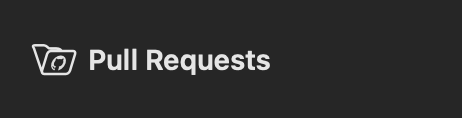
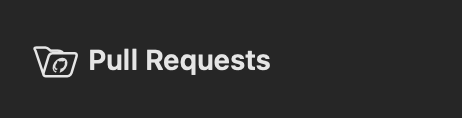
Anchor folder motion to lower-right spine corner [skip ci]

Changed region(s): [[0.0606, 0.3559, 0.1818, 0.661]]

diff --git a/Sources/Vane/FolderIcon.swift b/Sources/Vane/FolderIcon.swift
@@ -22,11 +22,34 @@ enum FolderFace {
     static let bounds = CGRect(x: -0.5, y: 3.5, width: 17.75, height: 13.5)
     static let badgeOffset = CGSize(width: 0.375, height: 2.25)
 
+    static func panelBounds(_ openness: CGFloat) -> CGRect {
+        CGRect(x: -0.25 - 0.25 * openness, y: 3.375 + 0.125 * openness,
+               width: 17.5 + 0.25 * openness, height: 13.25 + 0.25 * openness)
+    }
+
     static func panel(_ openness: CGFloat) -> Path {
         FolderPanel(openness: openness).path
     }
 
+    // The recording keeps this lower-right spine corner and the bottom edge planted.
+    static let hinge = CGPoint(x: 17.25, y: 16.625)
+
     static func projection(_ openness: CGFloat) -> CGAffineTransform {
+        var transform = unanchoredProjection(openness)
+        let offset = hingeOffset(openness)
+        transform.tx += offset.width
+        transform.ty += offset.height
+        return transform
+    }
+
+    static func hingeOffset(_ openness: CGFloat) -> CGSize {
+        let bounds = panelBounds(openness)
+        let corner = CGPoint(x: bounds.maxX, y: bounds.maxY)
+            .applying(unanchoredProjection(openness))
+        return CGSize(width: hinge.x - corner.x, height: hinge.y - corner.y)
+    }
+
+    private static func unanchoredProjection(_ openness: CGFloat) -> CGAffineTransform {
         let scaleX: CGFloat = 14 / bounds.width
         let scaleY: CGFloat = 11.5 / bounds.height
         let shear: CGFloat = -3.5 / bounds.height
@@ -53,8 +76,7 @@ struct FolderFaceProjection: GeometryEffect {
 private struct FolderPanel {
     let openness: CGFloat
     var bounds: CGRect {
-        CGRect(x: -0.25 - 0.25 * openness, y: 3.375 + 0.125 * openness,
-               width: 17.5 + 0.25 * openness, height: 13.25 + 0.25 * openness)
+        FolderFace.panelBounds(openness)
     }
     var topRadius: CGFloat { 2.25 - 0.5 * openness }
     var bottomRadius: CGFloat { 2.75 - 0.75 * openness }
@@ -107,8 +129,10 @@ struct FolderArtwork: Shape {
     }
 
     func path(in rect: CGRect) -> Path {
+        let offset = FolderFace.hingeOffset(openness)
         func point(_ cx: CGFloat, _ cy: CGFloat, _ ox: CGFloat, _ oy: CGFloat) -> CGPoint {
-            CGPoint(x: cx + (ox - cx) * openness, y: cy + (oy - cy) * openness)
+            CGPoint(x: cx + (ox - cx) * openness + offset.width,
+                    y: cy + (oy - cy) * openness + offset.height)
         }
         let panel = FolderPanel(openness: openness)
         let front = FolderFace.panel(openness)

diff --git a/Tests/VaneTests/FolderArtworkTests.swift b/Tests/VaneTests/FolderArtworkTests.swift
@@ -20,6 +20,22 @@ final class FolderArtworkTests: XCTestCase {
         }
     }
 
+    func testFrontOpensAroundFixedLowerRightCorner() {
+        let hinge = CGPoint(x: 17.25, y: 16.625)
+        for frame in 0...100 {
+            let openness = CGFloat(frame) / 100
+            let bounds = FolderFace.panelBounds(openness)
+            let corner = CGPoint(x: bounds.maxX, y: bounds.maxY)
+                .applying(FolderFace.projection(openness))
+            XCTAssertEqual(corner.x, hinge.x, accuracy: 0.00001,
+                           "Hinge drifts horizontally at openness \(openness)")
+            XCTAssertEqual(corner.y, hinge.y, accuracy: 0.00001,
+                           "Hinge lifts at openness \(openness)")
+            XCTAssertEqual(FolderFace.panel(openness).boundingRect.maxY, hinge.y, accuracy: 0.00001,
+                           "Bottom edge lifts at openness \(openness)")
+        }
+    }
+
     func testOpenRearStrokeDoesNotProtrudeBelowRoundedCorner() {
         let ink = FolderArtwork(openness: 1)
             .path(in: CGRect(x: 0, y: 0, width: 16, height: 16))
